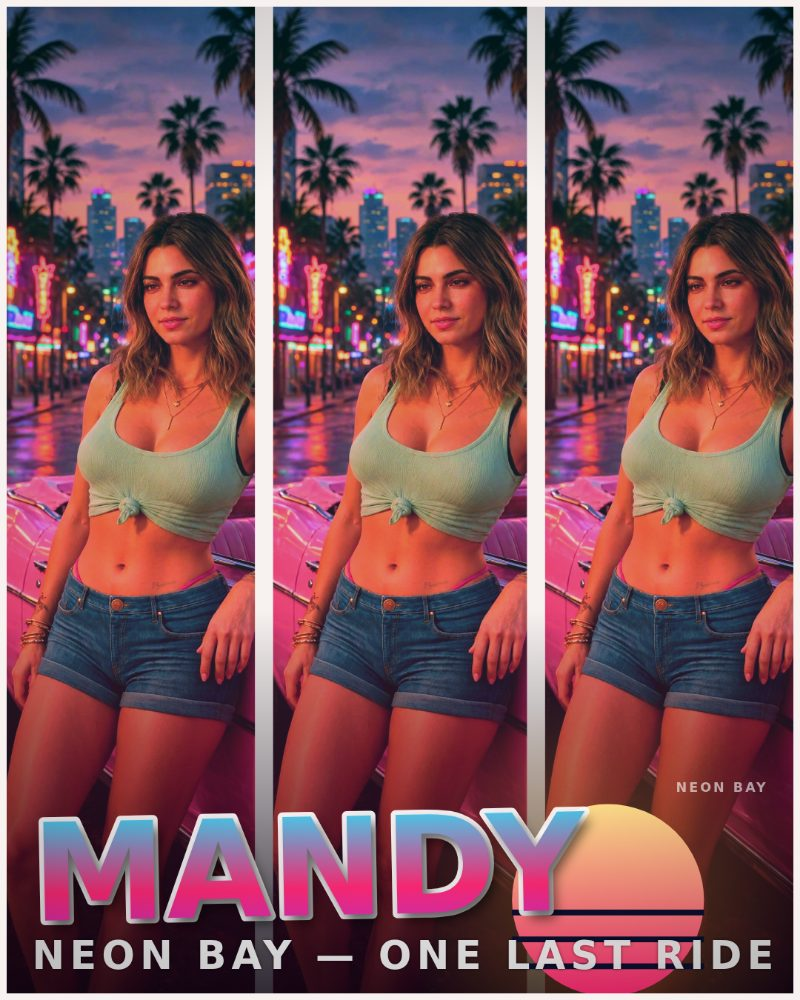
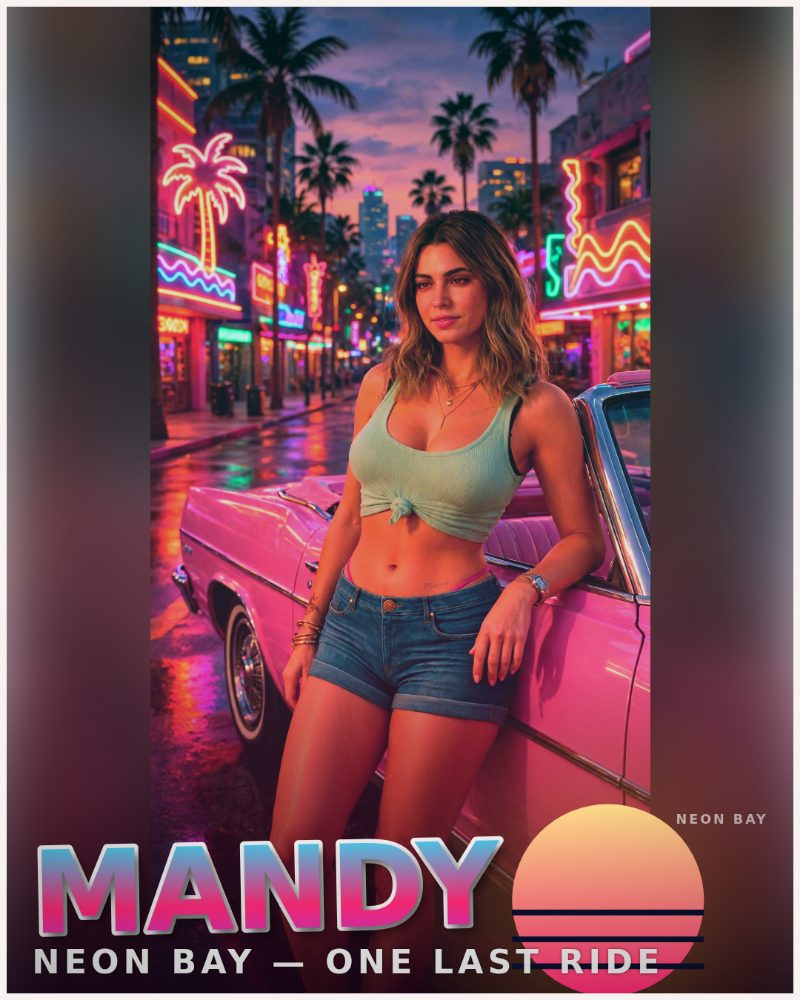
Full Bleed layout: single-photo cover, no collage, default

diff --git a/app/src/cover.js b/app/src/cover.js
@@ -1,8 +1,8 @@
 // Neon Bay Cover Studio — the cover renderer.
-// Draws multi-panel, GTA-poster-style cover art on a canvas: the user's photos
-// in panel quads, a sunset / neon / noir colour grade, and big gradient caption
-// lettering in the bundled DejaVu Sans Bold. Pure drawing, no DOM besides the
-// canvas it is handed.
+// Draws GTA-poster-style cover art on a canvas: the user's photos in panel
+// quads (or one photo, edge to edge, in Full Bleed), a sunset / neon / noir
+// colour grade, and big gradient caption lettering in the bundled DejaVu
+// Sans Bold. Pure drawing, no DOM besides the canvas it is handed.
 
 export const SIZES = {
   square: { label: 'Square', w: 1080, h: 1080 },
@@ -60,6 +60,18 @@ export const LAYOUTS = [
         poly([[0, 0], [0.56, 0], [0.46, 0.78], [0, 0.78]], w, h),
         poly([[0.6, 0], [1, 0], [1, 0.78], [0.5, 0.78]], w, h),
       ];
+    },
+  },
+  {
+    id: 'fullbleed',
+    name: 'Full Bleed',
+    // One photo, no panels: the whole cover is a single photo, edge to
+    // edge, with the caption overlaid at the bottom on a dark scrim.
+    caption: { x: 0, y: 0.78, w: 1, h: 0.22 },
+    scrim: true,
+    fullBleed: true,
+    panels(w, h) {
+      return [quad(0, 0, 1, 1, w, h)];
     },
   },
 ];
@@ -160,6 +172,31 @@ function drawPhotoInQuad(ctx, img, pts, zoom, ox, oy, filter) {
   tracePath(ctx, pts);
   ctx.clip();
   ctx.filter = filter;
+  ctx.drawImage(img, dx, dy, dw, dh);
+  ctx.restore();
+}
+
+// Full Bleed: one photo with nothing cropped out. A blurred, darkened copy
+// of the same photo fills the frame behind it, so the subject is fully
+// visible at any export size — portrait, square or wide.
+function drawFullBleedPhoto(ctx, img, w, h, zoom, ox, oy, grade) {
+  // Backdrop: the photo cover-fitting the frame, blurred and darkened.
+  const cover = Math.max(w / img.naturalWidth, h / img.naturalHeight);
+  const bw = img.naturalWidth * cover;
+  const bh = img.naturalHeight * cover;
+  ctx.save();
+  ctx.filter = 'blur(48px) brightness(0.45) saturate(1.25)';
+  ctx.drawImage(img, (w - bw) / 2, (h - bh) / 2, bw, bh);
+  ctx.restore();
+  // The photo itself, contain-fit so the subject is never cropped; zoom
+  // scales it up from there and ox/oy pan it, like the panel layouts.
+  const fit = Math.min(w / img.naturalWidth, h / img.naturalHeight) * (zoom || 1);
+  const dw = img.naturalWidth * fit;
+  const dh = img.naturalHeight * fit;
+  const dx = (w - dw) / 2 + (ox || 0) * w;
+  const dy = (h - dh) / 2 + (oy || 0) * h;
+  ctx.save();
+  ctx.filter = grade.filter;
   ctx.drawImage(img, dx, dy, dw, dh);
   ctx.restore();
 }
@@ -322,7 +359,11 @@ export function drawCover(canvas, state) {
     const slot = state.panels[i] || { photo: 0, zoom: 1, ox: 0, oy: 0 };
     const img = slot.photo >= 0 ? state.photos[slot.photo] : null;
     if (img) {
-      drawPhotoInQuad(ctx, img, pts, slot.zoom || 1, slot.ox || 0, slot.oy || 0, grade.filter);
+      if (layout.fullBleed) {
+        drawFullBleedPhoto(ctx, img, w, h, slot.zoom || 1, slot.ox || 0, slot.oy || 0, grade);
+      } else {
+        drawPhotoInQuad(ctx, img, pts, slot.zoom || 1, slot.ox || 0, slot.oy || 0, grade.filter);
+      }
     } else {
       // Empty panel: a dusk gradient with a dashed frame, inviting a photo.
       ctx.save();

diff --git a/app/src/shots.js b/app/src/shots.js
@@ -21,7 +21,8 @@ export async function runShot(shot, query, app) {
   // Tall sample photos cover-fit to the torso at zoom 1, so wide panels
   // (hero, grid) cut the subject's face off. A downward shift pulls the
   // face back into frame. Tall panels (triptych, slant) already show the
-  // full height, so they leave oy at 0.
+  // full height, so they leave oy at 0. Full Bleed needs no oy at all: it
+  // contain-fits the whole photo, so the subject is never cropped.
   const oy = Number.parseFloat(query.get('oy') || '0') || 0;
   if (oy !== 0) {
     window.__neonBay.state.panels.forEach((p) => { p.oy = oy; });

diff --git a/app/src/main.js b/app/src/main.js
@@ -20,7 +20,7 @@ const PREVIEW_PX = { square: [640, 640], portrait: [576, 720], wide: [768, 432] 
 const state = {
   photos: [], // { img, name }
   panels: [], // { photo, zoom, ox, oy } — one per layout panel
-  layoutId: 'hero',
+  layoutId: 'fullbleed',
   gradeId: 'sunset',
   sizeId: 'square',
   title: 'Mandy',
